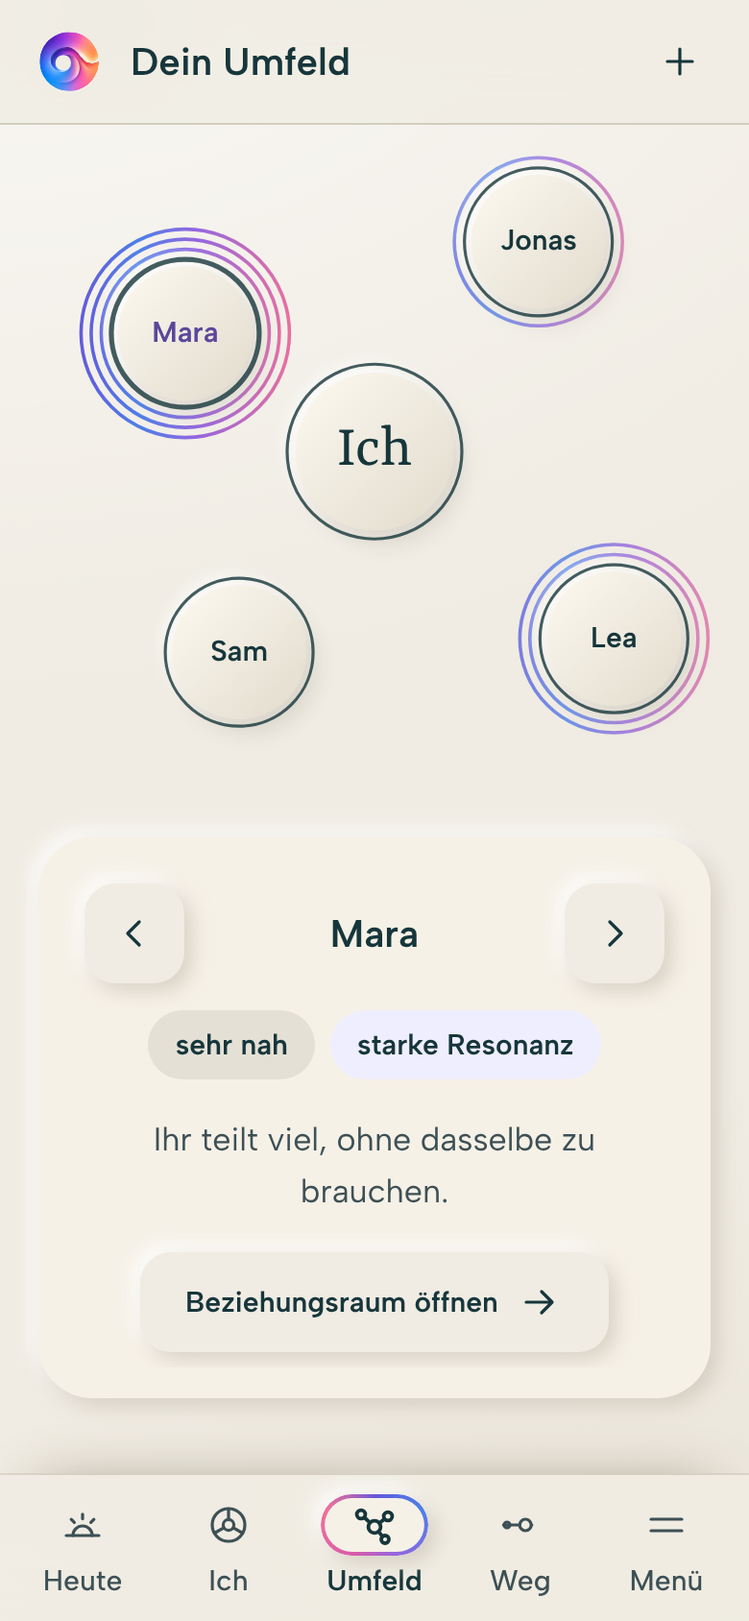
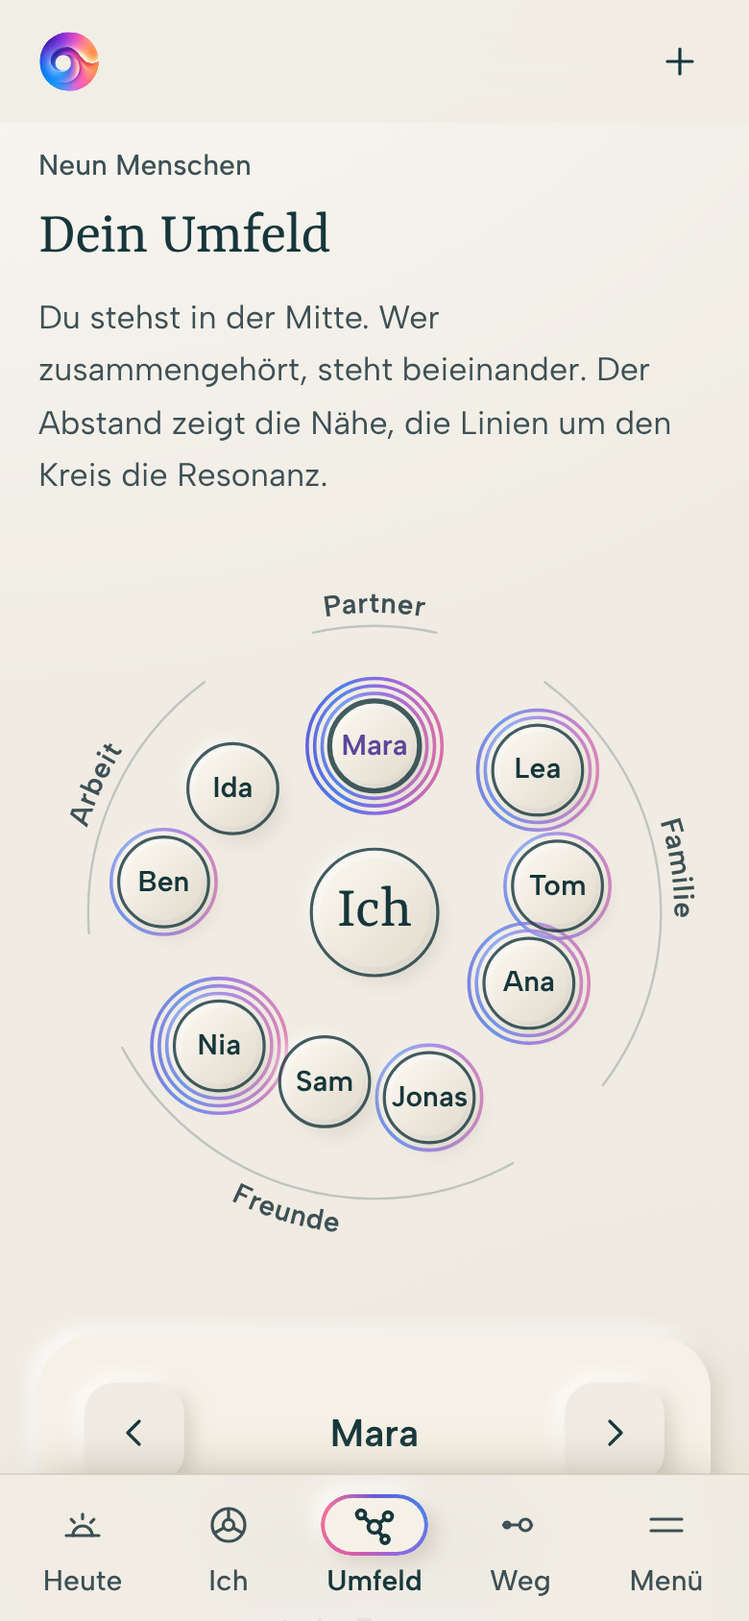
Umfeld in Clustern: Wer zusammengehört, steht beieinander
Der Winkel zeigt die Art (Partner, Familie, Freunde, Arbeit), ein feiner
Bogen mit Wort fasst jede Gruppe. Abstand bleibt die Nähe, Linien bleiben
die Resonanz. Die Art steht als erste Pille beim Menschen. Entwurf, noch
ohne neue Version.

Claude-Session: https://claude.ai/code/session_01GcUU3Qg4dj9oPnZ4iDHoTB

diff --git a/components/umfeld/umfeld.js b/components/umfeld/umfeld.js
@@ -5,15 +5,19 @@
    die Resonanz (wie im Beziehungsraum), keine Linie führt zur Mitte. Ohne
    aktive Resonanz bleibt nur der Abstand. Der Freiraum fehlt, das Umfeld
    kennt den Wert nicht.
+   Der Winkel sagt die Art (KINDS: Partner, Familie, Freunde, Arbeit, im Uhrzeigersinn,
+   die erste oben). Wer zusammengehört, steht beieinander. Ein feiner Bogen mit dem Wort
+   der Art fasst jede Gruppe, wie die Bereiche des Resonanzrads. Das Wort misst am
+   Bildschirm mindestens 15 px, das Bild baut sich bei Breitenwechsel neu auf.
    Aufbau: das Bild, darunter oder daneben ein einziges Panel (erhöhte Karte).
    Oben im Panel stehen die Pfeile mit dem Namen des gewählten Menschen (als
    Überschrift), direkt darunter im Lesebereich die Pillen für Nähe und
-   Resonanz, die Notiz und der Knopf, alles zentriert. Jede Angabe steht nur
+   Resonanz (die Art steht als erste Pille), die Notiz und der Knopf, alles zentriert. Jede Angabe steht nur
    einmal. Die Kreise im Bild sind Knöpfe, der Lesebereich lässt sich ziehen
    (Finger oder Maus), Kreis, Name und Lesebereich bleiben im Gleichschritt.
    Eine Liste gibt es nicht. Für Vorleser trägt das Panel die Rolle Karussell,
-   und eine Live-Zeile sagt «Du & Name, Nähe, Resonanz» an.
-   Das Bild ist senkrecht auf seinen Inhalt beschnitten (Rand 16 Einheiten),
+   und eine Live-Zeile sagt «Du & Name, Art, Nähe, Resonanz» an.
+   Das Bild ist auf seinen Inhalt beschnitten (Rand 16 Einheiten),
    damit das Panel früh im Sichtfeld steht.
 
    Mobile-first: Unter 560 px Breite gilt ein Hochformat mit grösseren
@@ -26,20 +30,29 @@
 (function () {
   'use strict';
   var NS = 'http://www.w3.org/2000/svg';
-  /* ring: Abstand der Linien um die Person. Im Hochformat enger, damit sie im Bild bleiben. */
+  /* ring: Abstand der Linien um die Person. Im Hochformat enger, damit sie im Bild bleiben.
+     out: Radius der Bögen, fs0: Grundgrösse der Bogenwörter in Bildeinheiten, px0: Breite der Bühne, falls noch nicht messbar. */
   var LAYOUTS = {
-    wide: { W: 720, H: 600, CX: 360, CY: 300, ME: 62, R: 46, base: 150, k: 1.1, edge: 330, ring: 8 },
-    tall: { W: 400, H: 560, CX: 200, CY: 280, ME: 52, R: 44, base: 120, k: 0.8, edge: 260, ring: 6 }
+    wide: { W: 760, H: 760, CX: 380, CY: 380, ME: 58, R: 40, base: 150, k: 1.15, edge: 340, ring: 7, out: 345, fs0: 17, px0: 640 },
+    tall: { W: 400, H: 400, CX: 200, CY: 200, ME: 38, R: 27, base: 92, k: 0.5, edge: 168, ring: 4.5, out: 172, fs0: 15, px0: 358 }
   };
+  /* Der Winkel sagt die Art. Die Reihenfolge der Arten läuft im Uhrzeigersinn, die erste steht oben. */
+  var KINDS = ['Partner', 'Familie', 'Freunde', 'Arbeit'];
+  var GAP = 16, MIN_WORD = 15;
   var PEOPLE = [
-    { name: 'Mara', angle: -58, proximity: 84, resonance: 86, note: 'Ihr teilt viel, ohne dasselbe zu brauchen.' },
-    { name: 'Jonas', angle: 38, proximity: 52, resonance: 34, note: 'Ein ruhiger Kontakt. Die Verbindung ist leise, aber da.' },
-    { name: 'Lea', angle: 128, proximity: 24, resonance: 64, note: 'Weit weg im Alltag, trotzdem spürbar verbunden.' },
-    { name: 'Sam', angle: 214, proximity: 70, resonance: 0, note: 'Oft nah, im Moment ohne aktive Resonanz.' }
-  ];
+    { name: 'Mara', kind: 'Partner', proximity: 84, resonance: 86, note: 'Ihr teilt viel, ohne dasselbe zu brauchen.' },
+    { name: 'Lea', kind: 'Familie', proximity: 24, resonance: 64, note: 'Weit weg im Alltag, trotzdem spürbar verbunden.' },
+    { name: 'Tom', kind: 'Familie', proximity: 62, resonance: 30, note: 'Ihr seht euch oft. Die Verbindung ist leise.' },
+    { name: 'Ana', kind: 'Familie', proximity: 80, resonance: 72, note: 'Sehr nah, und es schwingt spürbar.' },
+    { name: 'Jonas', kind: 'Freunde', proximity: 52, resonance: 34, note: 'Ein ruhiger Kontakt. Die Verbindung ist leise, aber da.' },
+    { name: 'Sam', kind: 'Freunde', proximity: 72, resonance: 0, note: 'Oft nah, im Moment ohne aktive Resonanz.' },
+    { name: 'Nia', kind: 'Freunde', proximity: 38, resonance: 88, note: 'Selten da, und doch die stärkste Resonanz.' },
+    { name: 'Ben', kind: 'Arbeit', proximity: 28, resonance: 20, note: 'Ihr arbeitet zusammen. Mehr ist es im Moment nicht.' },
+    { name: 'Ida', kind: 'Arbeit', proximity: 58, resonance: 0, note: 'Nah im Alltag, ohne aktive Resonanz.' }
+  ].sort(function (a, b) { return KINDS.indexOf(a.kind) - KINDS.indexOf(b.kind); });
   function near(p) { return p.proximity < 34 ? 'weit' : p.proximity < 75 ? 'nah' : 'sehr nah'; }
   function res(p) { return p.resonance === 0 ? 'keine Resonanz' : p.resonance < 40 ? 'leise Resonanz' : p.resonance < 80 ? 'spürbare Resonanz' : 'starke Resonanz'; }
-  function words(p) { return near(p) + ' · ' + res(p); }
+  function words(p) { return p.kind + ', ' + near(p) + ', ' + res(p); }
   function el(name, attrs) { var n = document.createElementNS(NS, name); for (var k in attrs) n.setAttribute(k, attrs[k]); return n; }
 
   var count = 0;
@@ -70,7 +83,8 @@
       var href = link + '?person=' + encodeURIComponent(p.name) + '&proximity=' + p.proximity + '&resonance=' + p.resonance;
       var s = document.createElement('div');
       s.className = 'umfeld__slide'; s.setAttribute('role', 'group'); s.setAttribute('aria-roledescription', 'Folie');
-      s.innerHTML = '<div class="umfeld__pills"><span class="element-chip umfeld__pill">' + near(p) + '</span>' +
+      s.innerHTML = '<div class="umfeld__pills"><span class="element-chip umfeld__pill">' + p.kind + '</span>' +
+        '<span class="element-chip umfeld__pill">' + near(p) + '</span>' +
         '<span class="element-chip area umfeld__pill">' + res(p) + '</span></div>' +
         '<p class="secondary">' + p.note + '</p>' +
         '<a class="button button--secondary glow-edge" href="' + href + '">Beziehungsraum öffnen <svg class="icon" viewBox="0 0 24 24" aria-hidden="true"><path d="M5 12h13M13 6.5l5.5 5.5-5.5 5.5"/></svg></a>';
@@ -130,25 +144,74 @@
     slider.addEventListener('dragstart', function (e) { e.preventDefault(); });
 
     /* Das Bild: aus einem Layout berechnet, bei Bedarf neu gezeichnet. */
+    var lastW = -1;
     function draw(name) {
       var L = LAYOUTS[name];
       layoutName = name;
-      /* Lage aller Menschen zuerst: daraus wird das Bild senkrecht auf den Inhalt beschnitten. */
-      var geo = PEOPLE.map(function (p) {
-        var dist = L.base + (100 - p.proximity) * L.k, a = p.angle * Math.PI / 180;
-        var level = p.resonance === 0 ? 0 : p.resonance < 40 ? 1 : p.resonance < 80 ? 2 : 3;
-        return { dist: dist, level: level, x: L.CX + dist * Math.sin(a), y: L.CY - dist * Math.cos(a) };
+      var px = stage.getBoundingClientRect().width; lastW = px;
+      /* Gruppen: Arten ohne Menschen bekommen keinen Platz. Jede Gruppe hat ihren Platz (slot), die Menschen stehen darin gleichmässig. */
+      var kinds = KINDS.filter(function (k) { return PEOPLE.some(function (p) { return p.kind === k; }); });
+      var per = (360 - GAP * kinds.length) / PEOPLE.length, at = 0;
+      var groups = kinds.map(function (k, gi) {
+        var n = PEOPLE.filter(function (p) { return p.kind === k; }).length;
+        if (gi === 0) at = -per * n / 2;
+        var g = { kind: k, a0: at, a1: at + per * n, mid: at + per * n / 2 };
+        at = g.a1 + GAP; return g;
       });
-      var minY = L.CY - L.ME, maxY = L.CY + L.ME;
-      geo.forEach(function (g) { var r = L.R + L.ring * g.level; minY = Math.min(minY, g.y - r); maxY = Math.max(maxY, g.y + r); });
-      var vbY = Math.floor(minY - 16), vbH = Math.ceil(maxY + 16) - vbY;
+      var pos = function (a, d) { var r = a * Math.PI / 180; return [L.CX + d * Math.sin(r), L.CY - d * Math.cos(r)]; };
+      var first = {};
+      /* Lage aller Menschen zuerst: daraus wird das Bild auf den Inhalt beschnitten. */
+      var geo = PEOPLE.map(function (p) {
+        var gr = groups[kinds.indexOf(p.kind)], idx = first[p.kind] = (first[p.kind] === undefined ? 0 : first[p.kind] + 1);
+        var ang = gr.a0 + per * (idx + 0.5), dist = L.base + (100 - p.proximity) * L.k, xy = pos(ang, dist);
+        var level = p.resonance === 0 ? 0 : p.resonance < 40 ? 1 : p.resonance < 80 ? 2 : 3;
+        return { dist: dist, level: level, x: xy[0], y: xy[1] };
+      });
+      /* Wörter: Schriftgrösse so, dass sie am Bildschirm mindestens MIN_WORD px misst. Sie hängt an der Breite des Bildes,
+         und die Breite an den Wörtern: wenige Durchgänge genügen. */
+      var vbX = 0, vbW = L.W, fs = L.fs0, vbY = 0, vbH = L.H, items = [];
+      for (var pass = 0; pass < 4; pass++) {
+        fs = Math.max(L.fs0, MIN_WORD * vbW / (px || L.px0));
+        var minX = L.CX - L.ME, maxX = L.CX + L.ME, minY = L.CY - L.ME, maxY = L.CY + L.ME;
+        var grow = function (x, y) { minX = Math.min(minX, x); maxX = Math.max(maxX, x); minY = Math.min(minY, y); maxY = Math.max(maxY, y); };
+        geo.forEach(function (g) { var r = L.R + L.ring * g.level; grow(g.x - r, g.y - r); grow(g.x + r, g.y + r); });
+        items = groups.map(function (gr) {
+          var m = ((gr.mid % 360) + 360) % 360, bottom = m > 100 && m < 260;
+          var tr = L.out + (bottom ? fs + 4 : 8), outer = bottom ? tr : tr + fs * 0.8;
+          var b0 = gr.a0 + 4, b1 = gr.a1 - 4;
+          var half = Math.min(40, (gr.kind.length * fs * 0.62 / 2 / tr) * 180 / Math.PI);
+          [[b0, L.out], [gr.mid, L.out], [b1, L.out], [gr.mid - half, outer], [gr.mid, outer], [gr.mid + half, outer]].forEach(function (q) { var c = pos(q[0], q[1]); grow(c[0], c[1]); });
+          /* Die Bögen dicht abtasten, damit auch die Achsenpunkte (oben, rechts, unten, links) zählen. */
+          [[b0, b1, L.out], [gr.mid - half, gr.mid + half, outer]].forEach(function (r) {
+            for (var a = r[0]; a <= r[1]; a += 1) { var c = pos(a, r[2]); grow(c[0], c[1]); }
+          });
+          return { gr: gr, bottom: bottom, tr: tr, b0: b0, b1: b1 };
+        });
+        var halfW = Math.max(L.W / 2, L.CX - minX + 8, maxX - L.CX + 8);
+        vbX = L.CX - halfW; vbW = 2 * halfW;
+        vbY = Math.floor(minY - 16); vbH = Math.ceil(maxY + 16) - vbY;
+      }
+      vbX = Math.floor(vbX * 10) / 10; vbW = Math.ceil(vbW * 10) / 10;
+      var fx = function (x) { return (x - vbX) / vbW * 100; };
       var fy = function (y) { return (y - vbY) / vbH * 100; };
-      stage.innerHTML = '<svg class="umfeld__svg" viewBox="0 ' + vbY + ' ' + L.W + ' ' + vbH + '" aria-hidden="true"><defs></defs></svg>';
+      stage.innerHTML = '<svg class="umfeld__svg" viewBox="' + vbX + ' ' + vbY + ' ' + vbW + ' ' + vbH + '" aria-hidden="true"><defs></defs></svg>';
       stage.dataset.layout = name;
       var svg = stage.firstChild, defs = svg.firstChild;
       var relief = el('linearGradient', { id: uid + '-relief', x1: '0%', y1: '0%', x2: '100%', y2: '100%' });
       relief.appendChild(el('stop', { offset: 0, 'stop-color': '#FCF9F0' })); relief.appendChild(el('stop', { offset: 1, 'stop-color': '#E2DBCD' }));
       defs.appendChild(relief);
+      /* Bögen mit dem Wort der Art: unter allem anderen. Das Wort läuft in der unteren Hälfte andersherum, damit es nicht auf dem Kopf steht. */
+      var arcG = el('g', { class: 'umfeld__arcs' }), arcs = [];
+      svg.appendChild(arcG);
+      items.forEach(function (it, gi) {
+        var gr = it.gr, p0 = pos(it.b0, L.out), p1 = pos(it.b1, L.out);
+        var arc = el('path', { class: 'umfeld__arc', d: 'M' + p0[0] + ' ' + p0[1] + 'A' + L.out + ' ' + L.out + ' 0 ' + (it.b1 - it.b0 > 180 ? 1 : 0) + ' 1 ' + p1[0] + ' ' + p1[1] });
+        var w0 = pos(gr.mid - 40, it.tr), w1 = pos(gr.mid + 40, it.tr), id = uid + '-k' + gi;
+        defs.appendChild(el('path', { id: id, d: it.bottom ? 'M' + w1[0] + ' ' + w1[1] + 'A' + it.tr + ' ' + it.tr + ' 0 0 0 ' + w0[0] + ' ' + w0[1] : 'M' + w0[0] + ' ' + w0[1] + 'A' + it.tr + ' ' + it.tr + ' 0 0 1 ' + w1[0] + ' ' + w1[1] }));
+        var word = el('text', { class: 'umfeld__kind', 'font-size': fs });
+        var tp = el('textPath', { href: '#' + id, startOffset: '50%', 'text-anchor': 'middle' }); tp.textContent = gr.kind;
+        word.appendChild(tp); arcG.appendChild(arc); arcG.appendChild(word); arcs.push(arc, word);
+      });
       var rings = el('g', { class: 'umfeld__rings' }), discs = el('g', {}), lines = el('g', { class: 'umfeld__contours' });
       svg.appendChild(rings); svg.appendChild(discs); svg.appendChild(lines);
       discs.appendChild(el('circle', { cx: L.CX, cy: L.CY, r: L.ME - 5, fill: 'url(#' + uid + '-relief)', class: 'relief-disc' }));
@@ -157,15 +220,15 @@
       /* Name im Bild („Ich“, ruht): eingemittet über `translate`. */
       var label = function (text, x, y, cls) {
         var s = document.createElement('span'); s.className = 'umfeld__name' + (cls ? ' ' + cls : ''); s.textContent = text;
-        s.style.left = x / L.W * 100 + '%'; s.style.top = fy(y) + '%'; stage.appendChild(s); return s;
+        s.style.left = fx(x) + '%'; s.style.top = fy(y) + '%'; stage.appendChild(s); return s;
       };
       /* Mensch: Knopf über dem ganzen Kreis. Er sitzt über left/top und Grösse genau auf dem Kreis, ohne Verschiebung:
          GSAP schreibt `translate` beim ersten Tween in `transform` um und verlöre die Einmittung. */
       var pick = function (p, i, x, y) {
         var b = document.createElement('button'); b.type = 'button'; b.className = 'umfeld__name umfeld__pick'; b.textContent = p.name;
         b.setAttribute('aria-pressed', 'false'); b.setAttribute('aria-label', p.name + ', ' + words(p));
-        b.style.left = (x - L.R) / L.W * 100 + '%'; b.style.top = fy(y - L.R) + '%';
-        b.style.width = 2 * L.R / L.W * 100 + '%'; b.style.height = 2 * L.R / vbH * 100 + '%';
+        b.style.left = fx(x - L.R) + '%'; b.style.top = fy(y - L.R) + '%';
+        b.style.width = 2 * L.R / vbW * 100 + '%'; b.style.height = 2 * L.R / vbH * 100 + '%';
         b.addEventListener('click', function () { select(i); });
         b.addEventListener('keydown', function (e) {
           var at = PEOPLE.indexOf(p), d = e.key === 'ArrowRight' || e.key === 'ArrowDown' ? 1 : e.key === 'ArrowLeft' || e.key === 'ArrowUp' ? -1 : 0;
@@ -195,9 +258,9 @@
         var contour = el('circle', { cx: x, cy: y, r: L.R, class: 'umfeld__contour', 'data-contour': '' });
         lines.appendChild(contour);
         return { person: p, rings: ringList, disc: disc, contour: contour, name: pick(p, i, x, y),
-          from: { x: L.CX + ux * L.edge, y: L.CY + uy * L.edge }, at: { x: x, y: y }, width: L.W };
+          from: { x: L.CX + ux * L.edge, y: L.CY + uy * L.edge }, at: { x: x, y: y }, width: vbW };
       });
-      api.parts = { svg: svg, me: me, people: people, width: L.W, top: vbY, height: vbH };
+      api.parts = { svg: svg, me: me, people: people, arcs: arcs, width: vbW, top: vbY, height: vbH };
       mark();
     }
 
@@ -228,7 +291,12 @@
     draw(pickLayout());
     select(0);
     api.ready = true;
-    if (window.ResizeObserver) new ResizeObserver(function () { var n = pickLayout(); if (n !== layoutName) draw(n); slideTo(selected, false); }).observe(root);
+    if (window.ResizeObserver) new ResizeObserver(function () {
+      var n = pickLayout(), w = stage.getBoundingClientRect().width;
+      /* Neu zeichnen, wenn das Layout wechselt oder die Bühne ihre Breite ändert: die Wörter bleiben so mindestens 15 px gross. */
+      if (n !== layoutName || Math.abs(w - lastW) > 0.5) draw(n);
+      slideTo(selected, false);
+    }).observe(root);
     api.select = select;
     root._umfeld = api;
     return api;

diff --git a/index.html b/index.html
@@ -308,6 +308,7 @@
     </ol>
   </div>
   <div class="product-panel" id="panel-umfeld" role="tabpanel" aria-labelledby="tab-umfeld" hidden>
+    <div class="product-copy"><h3 class="t-title">Wer zusammengehört, steht beieinander.</h3><p class="secondary">Ein feiner Bogen mit dem Wort der Art fasst jede Gruppe. Der Abstand zeigt die Nähe, die Linien um den Kreis die Resonanz.</p></div>
     <div data-umfeld data-anim="umfeld"></div>
   </div>
   <div class="product-panel" id="panel-weg" role="tabpanel" aria-labelledby="tab-weg" hidden>
@@ -408,7 +409,7 @@
   </header>
   <ul class="element-cards" data-anim="stagger">
     <li><a class="element-card area glow-edge" data-area="sterne" href="components/resonanzrad/"><span class="element-card__mark" aria-hidden="true"><svg viewBox="0 0 64 64"><circle cx="32" cy="32" r="27" fill="none" stroke="currentColor" stroke-width="5" stroke-dasharray="52 4.5"/><circle cx="32" cy="32" r="8" fill="currentColor"/></svg></span><span class="element-card__kosmos">Resonanzkosmos</span><span class="element-card__name">Resonanzrad</span><span class="secondary">Neun Elemente, drei Bereiche, Ausfüllstatus.</span></a></li>
-    <li><a class="element-card area glow-edge" data-area="bezug" href="components/umfeld/"><span class="element-card__mark" aria-hidden="true"><svg viewBox="0 0 64 64" fill="none" stroke="currentColor" stroke-width="2.4" stroke-linecap="round"><circle cx="32" cy="32" r="9"/><circle cx="14" cy="16" r="6"/><circle cx="52" cy="22" r="6"/><circle cx="46" cy="52" r="6"/><path d="M25 26l-6-5M41 29l6-3M38 39l4 7"/></svg></span><span class="element-card__kosmos">Resonanzkosmos</span><span class="element-card__name">Umfeld</span><span class="secondary">Ich in der Mitte, Menschen nach Nähe und Resonanz.</span></a></li>
+    <li><a class="element-card area glow-edge" data-area="bezug" href="components/umfeld/"><span class="element-card__mark" aria-hidden="true"><svg viewBox="0 0 64 64" fill="none" stroke="currentColor" stroke-width="2.4" stroke-linecap="round"><circle cx="32" cy="32" r="9"/><circle cx="14" cy="16" r="6"/><circle cx="52" cy="22" r="6"/><circle cx="46" cy="52" r="6"/><path d="M25 26l-6-5M41 29l6-3M38 39l4 7"/></svg></span><span class="element-card__kosmos">Resonanzkosmos</span><span class="element-card__name">Umfeld</span><span class="secondary">Ich in der Mitte, Menschen nach Art, Nähe und Resonanz.</span></a></li>
     <li><a class="element-card area glow-edge" data-area="ich" href="components/beziehungsraum/"><span class="element-card__mark" aria-hidden="true"><svg viewBox="0 0 64 64" fill="none" stroke="currentColor" stroke-width="2.4" stroke-linecap="round"><path d="M10 40a13 13 0 1 1 15 0M39 40a13 13 0 1 1 15 0"/><path d="M30 32c2 3 2 3 4 0"/></svg></span><span class="element-card__kosmos">Resonanzkosmos</span><span class="element-card__name">Beziehungsraum</span><span class="secondary">Zwei eigene Räume und ihre Verbindung.</span></a></li>
     <li><a class="element-card area glow-edge" data-area="sterne" href="components/weg/"><span class="element-card__mark" aria-hidden="true"><svg viewBox="0 0 64 64" fill="none" stroke="currentColor" stroke-width="2.4" stroke-linecap="round"><path d="M8 32h30"/><path d="M46 32h10" stroke-dasharray="3 4"/><circle cx="8" cy="32" r="3" fill="currentColor"/><circle cx="23" cy="32" r="3" fill="currentColor"/><circle cx="38" cy="32" r="5"/></svg></span><span class="element-card__kosmos">Resonanzkosmos</span><span class="element-card__name">Weg &amp; Tageslinie</span><span class="secondary">Stationen: erledigt, jetzt, offen.</span></a></li>
     <li><a class="element-card area glow-edge" data-area="sterne" href="components/zeichen/"><span class="element-card__mark" aria-hidden="true"><svg viewBox="0 0 64 64" fill="none" stroke="currentColor" stroke-width="2.4" stroke-linecap="round"><path d="M56.6 28.6A25 25 0 1 0 57 34a11 11 0 0 1-14-6 9 9 0 0 0 13.6.6"/><circle cx="26" cy="34" r="7"/><path d="M33 34c0 8-7 12-13 10M19 27c4-7 15-8 21-1"/></svg></span><span class="element-card__kosmos">Marke</span><span class="element-card__name">Zeichen in Bewegung</span><span class="secondary">Zeichenaufbau und Lichtlauf.</span></a></li>

diff --git a/components/umfeld/umfeld.css b/components/umfeld/umfeld.css
@@ -10,9 +10,12 @@
 .umfeld__contour.is-active{stroke-width:2.6}
 .umfeld__ring{fill:none;stroke-linecap:round;vector-effect:non-scaling-stroke;opacity:.8;transition:opacity var(--motion-ui) ease}
 .umfeld__ring.is-active{opacity:1}
+.umfeld__arc{fill:none;stroke:var(--ink);stroke-opacity:.22;stroke-width:1.2px;stroke-linecap:round;vector-effect:non-scaling-stroke}
+.umfeld__kind{fill:var(--ink-2);font-family:var(--ui-font);font-weight:600;letter-spacing:.02em;pointer-events:none}
 .umfeld__name{position:absolute;translate:-50% -50%;font:var(--type-heading);white-space:nowrap;pointer-events:none}
-/* Menschen sind Knöpfe über dem ganzen Kreis, per left/top auf den Kreis gesetzt (kein translate: GSAP bewegt sie im Auftritt über transform) */
-.umfeld__pick{translate:none;display:grid;place-items:center;min-width:44px;min-height:44px;padding:0;border:0;border-radius:50%;background:transparent;color:inherit;cursor:pointer;pointer-events:auto;-webkit-tap-highlight-color:transparent}
+/* Menschen sind Knöpfe über dem ganzen Kreis, per left/top auf den Kreis gesetzt (kein translate: GSAP bewegt sie im Auftritt über transform). Die Trefferfläche wächst über ::after auf mindestens 44 px, ohne den Knopf zu verschieben. */
+.umfeld__pick{translate:none;display:grid;place-items:center;padding:0;border:0;border-radius:50%;background:transparent;color:inherit;cursor:pointer;pointer-events:auto;-webkit-tap-highlight-color:transparent}
+.umfeld__pick::after{content:'';position:absolute;left:50%;top:50%;width:max(100%,44px);height:max(100%,44px);translate:-50% -50%;border-radius:50%}
 .umfeld__name--me{font:var(--type-title);font-size:32px;line-height:1}
 .umfeld__name.is-active{color:var(--sterne-tief)}
 

diff --git a/assets/motion.js b/assets/motion.js
@@ -262,6 +262,8 @@
         });
         /* Die Linien um die Person blenden sanft ein, wo vorher die Verbindung gezeichnet wurde. */
         people.forEach(function (p, i) { if (p.rings.length) tl.from(p.rings, { opacity: 0, duration: 0.9, ease: M.ease.reveal, stagger: 0.15, clearProps: 'opacity' }, 1.4 + i * 0.15); });
+        /* Bögen und Wörter der Arten blenden erst ein, wenn die Kreise stehen. */
+        if (api.parts.arcs && api.parts.arcs.length) tl.from(api.parts.arcs, { opacity: 0, duration: 0.8, ease: M.ease.reveal, stagger: 0.08, clearProps: 'opacity' }, 1.0);
         /* Das Panel als Ganzes früh: die Bedienung steht da, bevor die Kreise ankommen. */
         if (panel) tl.from(panel, { opacity: 0, y: M.y, duration: 0.6, clearProps: CLEAR }, 0.4);
       }, 0.3);

diff --git a/components/umfeld/index.html b/components/umfeld/index.html
@@ -21,7 +21,7 @@
 <main class="page">
   <div class="page-intro">
     <h1 data-anim="hero">Umfeld</h1>
-    <p data-anim="hero">Du stehst in der Mitte. Jeder Mensch ist ein eigener, geschlossener Kreis. Der Abstand zeigt die Nähe, die Linien um den Kreis zeigen die Resonanz. Ohne aktive Resonanz bleibt nur der Abstand.</p>
+    <p data-anim="hero">Du stehst in der Mitte. Jeder Mensch ist ein eigener, geschlossener Kreis. Wer zusammengehört, steht beieinander: Ein feiner Bogen mit dem Wort der Art fasst jede Gruppe (Partner, Familie, Freunde, Arbeit). Der Abstand zeigt die Nähe, die Linien um den Kreis zeigen die Resonanz. Ohne aktive Resonanz bleibt nur der Abstand.</p>
   </div>
   <div id="element" data-umfeld data-anim="umfeld"></div>
 </main>

diff --git a/components/app/umfeld.html b/components/app/umfeld.html
@@ -28,9 +28,9 @@
 
 <main class="app-main" id="main" tabindex="-1">
   <header class="app-pagehead">
-    <p class="app-kicker">Vier Menschen</p>
+    <p class="app-kicker">Neun Menschen</p>
     <h1 class="app-title">Dein Umfeld</h1>
-    <p class="app-lead">Du stehst in der Mitte. Der Abstand zeigt die Nähe, die Linien um den Kreis die Resonanz. Ohne aktive Resonanz bleibt nur der Abstand.</p>
+    <p class="app-lead">Du stehst in der Mitte. Wer zusammengehört, steht beieinander. Der Abstand zeigt die Nähe, die Linien um den Kreis die Resonanz.</p>
   </header>
   <div data-umfeld data-anim="umfeld"></div>
 </main>

diff --git a/DESIGN-NOTES.md b/DESIGN-NOTES.md
@@ -245,7 +245,7 @@ Im Zentrum steht das Resonanzrad mit neun Elementen: den Grundlagen, aus denen R
 - Der Ring zeigt die drei Bereiche gleich stark und hebt nichts hervor. Icons, Konturen und Auswahlbogen sind Ink.
 - Seit 4.11.1 steht das Rad still: Ein Tipp wählt das Stück an seinem Platz, nichts dreht und nichts lässt sich ziehen. In der App wählen Rad und Pfeile nur, «Lesen» und die Liste öffnen das Element als Fenster (Telefon von unten, Computer Mitte); dieser Aufbau ist im Baustein noch nicht nachgebaut.
 
-**Umfeld** (`components/umfeld/`): Ich in der Mitte, Menschen als eigene, geschlossene Kreise. Der Abstand zeigt die Nähe. Null bis drei Linien im Verlauf um die Person zeigen die Resonanz, wie im Beziehungsraum; ohne aktive Resonanz gibt es keine Linie. Keine Linie führt zur Mitte, und einen Freiraum gibt es nicht, weil das Umfeld den Wert nicht kennt. Die Kreise sind Knöpfe: Ein Klick auf Kreis oder Name wählt den Menschen. Aufbau: das Bild, darunter ein einziges Panel (erhöhte Karte, ohne Trennstrich). Oben im Panel stehen die Pfeile (wie beim Resonanzrad) mit dem Namen des gewählten Menschen, direkt darunter Nähe und Resonanz als Pillen, die Notiz und der Knopf, alles zentriert. Jede Angabe steht nur einmal: kein „Du & Name“ und keine zweite Zustandszeile. Der Lesebereich lässt sich mit Finger oder Maus ziehen, Kreis, Name und Lesebereich bleiben im Gleichschritt. Die Liste entfällt, und die Karte mit Zähler ebenso (Rückmeldung Chris vom 15.11.2026: Design wie Ich-Übersicht, gleiche Pfeile, Pillen, mehr Raum und früher sichtbar; Rückmeldung Chris vom 16.11.2026: eine Einheit, jede Angabe einmal). Das Bild ist senkrecht auf den Inhalt beschnitten, damit das Panel früh im Sichtfeld steht, und im Auftritt erscheint es als Ganzes nach 0,4 Sekunden. Ab 900 px steht das Panel rechts neben dem Bild, zur Bildmitte ausgerichtet. Der Lesebereich öffnet den Beziehungsraum mit den Werten des Menschen. So trägt das Umfeld mehr als eine einzelne Beziehung. Unter 560 px Breite gilt ein Hochformat mit grösseren Kreisen, damit die Namen in echten 15 px hineinpassen. Entwurf vom 15.11.2026, die Version ist noch nicht freigegeben.
+**Umfeld** (`components/umfeld/`): Ich in der Mitte, Menschen als eigene, geschlossene Kreise. Der Abstand zeigt die Nähe. Null bis drei Linien im Verlauf um die Person zeigen die Resonanz, wie im Beziehungsraum; ohne aktive Resonanz gibt es keine Linie. Keine Linie führt zur Mitte, und einen Freiraum gibt es nicht, weil das Umfeld den Wert nicht kennt. Die Kreise sind Knöpfe: Ein Klick auf Kreis oder Name wählt den Menschen. Aufbau: das Bild, darunter ein einziges Panel (erhöhte Karte, ohne Trennstrich). Oben im Panel stehen die Pfeile (wie beim Resonanzrad) mit dem Namen des gewählten Menschen, direkt darunter Nähe und Resonanz als Pillen, die Notiz und der Knopf, alles zentriert. Jede Angabe steht nur einmal: kein „Du & Name“ und keine zweite Zustandszeile. Der Lesebereich lässt sich mit Finger oder Maus ziehen, Kreis, Name und Lesebereich bleiben im Gleichschritt. Die Liste entfällt, und die Karte mit Zähler ebenso (Rückmeldung Chris vom 15.11.2026: Design wie Ich-Übersicht, gleiche Pfeile, Pillen, mehr Raum und früher sichtbar; Rückmeldung Chris vom 16.11.2026: eine Einheit, jede Angabe einmal). Das Bild ist senkrecht auf den Inhalt beschnitten, damit das Panel früh im Sichtfeld steht, und im Auftritt erscheint es als Ganzes nach 0,4 Sekunden. Ab 900 px steht das Panel rechts neben dem Bild, zur Bildmitte ausgerichtet. Der Lesebereich öffnet den Beziehungsraum mit den Werten des Menschen. So trägt das Umfeld mehr als eine einzelne Beziehung. Unter 560 px Breite gilt ein Hochformat mit grösseren Kreisen, damit die Namen in echten 15 px hineinpassen. Entwurf vom 15.11.2026, die Version ist noch nicht freigegeben. Cluster nach Art: Der Winkel ist die Art, der Abstand die Nähe, die Linien sind die Resonanz. Wer zusammengehört, steht beieinander. Ein feiner Bogen mit dem Wort der Art fasst jede Gruppe, wie die Bereiche des Resonanzrads (Wort mindestens 15 px, in der unteren Hälfte andersherum, damit es nicht auf dem Kopf steht). Arten ohne Menschen bekommen keinen Platz, zwischen den Gruppen liegen 16°, die erste Gruppe steht oben. Die Art steht als erste Pille beim Menschen. Die Liste Partner, Familie, Freunde, Arbeit hat Chris am 16.11.2026 freigegeben. Der Glossar-Eintrag dazu steht noch aus. Auf dem Telefon wird es ab etwa acht Menschen eng, dann braucht es einen Filter nach Art.
 
 **Beziehungsraum** (`components/beziehungsraum/`), neue Darstellung vom 15.11.2026 (Entwurf, PR 24). Der Baustein wird in der App ohne Regler gezeigt, darum muss das Bild allein lesbar sein. Jeder Wert hat ein eigenes Zeichen:
 - SVG-Raum 720 × 400, Mitte y = 170. Die Person ist ein Kreis mit Radius 50, immer gleich gross.

diff --git a/README.md b/README.md
@@ -200,7 +200,7 @@ Jeder Baustein ist ein klassisches Skript und legt ein Objekt auf `window`. Mit 
 
 - `mount(root, { link, heading })` zeichnet Ich und die Menschen darum und gibt `{ select(i), parts }` zurück. `link` führt zum Beziehungsraum, ergänzt um `?person=…&proximity=…&resonance=…`.
 - Bedienung: Die Kreise im Bild sind Knöpfe (Pfeiltasten wechseln den Menschen). Aufbau: das Bild, darunter (ab 900 px daneben) ein Panel `.umfeld__panel` (erhöhte Karte). Oben im Panel `.umfeld__nav` mit den Pfeilen und dem Namen des gewählten Menschen (`.umfeld__current`, als Überschrift im mit `heading` gewählten Level), darunter der Lesebereich `.umfeld__reader` mit Pillen für Nähe und Resonanz, Notiz und Knopf, zentriert, zum Ziehen mit Finger oder Maus. Jede Angabe steht nur einmal. Das Bild ist senkrecht auf den Inhalt beschnitten. Eine Liste gibt es nicht. Grund: Rückmeldungen Chris vom 15.11. und 16.11.2026, Design wie die Ich-Übersicht, eine Einheit.
-- `people`: die Menschen der Vorschau.
+- `people`: die Menschen der Vorschau, je mit `kind` (Art), `proximity` und `resonance`. Der Winkel sagt die Art (Partner, Familie, Freunde, Arbeit, im Uhrzeigersinn, die erste oben), der Abstand die Nähe, die Linien die Resonanz. Ein feiner Bogen mit dem Wort der Art fasst jede Gruppe (`parts.arcs`), das Wort misst am Bildschirm mindestens 15 px. Die Art steht als erste Pille. Auf dem Telefon wird es ab etwa acht Menschen eng, dann braucht es einen Filter nach Art.
 
 ```html
 <div data-umfeld data-anim="umfeld"></div>
